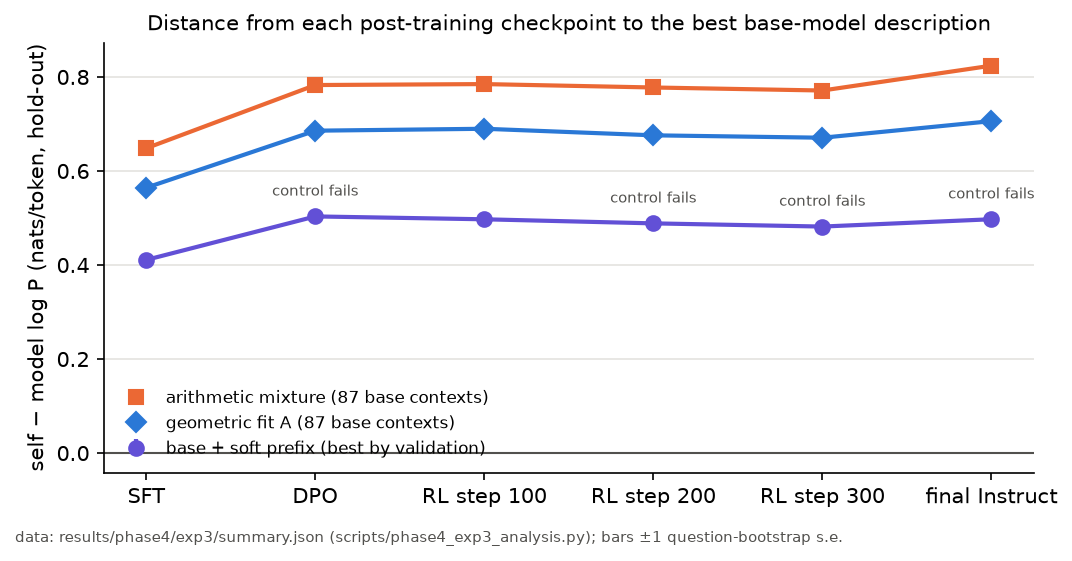
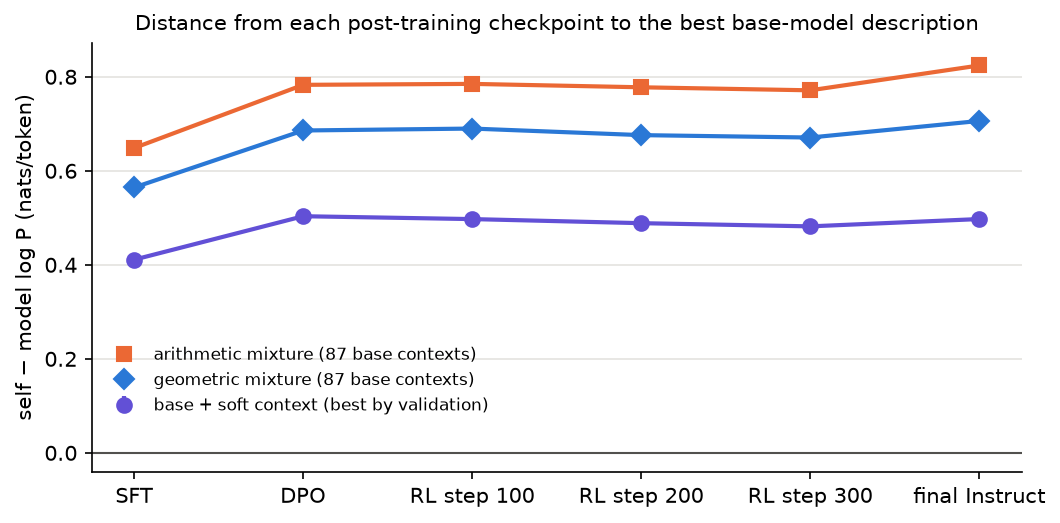
writing updates

Changed region(s): [[0.0, 0.0918, 0.9962, 0.979], [0.1245, 0.0306, 0.934, 0.0612]]

diff --git a/scripts/phase4_fig3.py b/scripts/phase4_fig3.py
@@ -18,8 +18,8 @@ def main():
     S = json.load(open("results/phase4/exp3/summary.json"))["checkpoints"]; ks = [k for k in ORDER if k in S]
     x = np.arange(len(ks)); fig, ax = plt.subplots(figsize=(7.2, 3.6))
     series = [("gap_arithmetic", "gap_arithmetic_se", "arithmetic mixture (87 base contexts)", "#eb6834", "s"),
-              ("gap_geometric", "gap_geometric_se", "geometric fit A (87 base contexts)", "#2a78d6", "D"),
-              ("gap", "gap_se", "base + soft prefix (best by validation)", "#6250d6", "o")]
+              ("gap_geometric", "gap_geometric_se", "geometric mixture (87 base contexts)", "#2a78d6", "D"),
+              ("gap", "gap_se", "base + soft context (best by validation)", "#6250d6", "o")]
     for key, se, lab, col, mk in series:
         xs = [i for i, k in enumerate(ks) if key in S[k]]
         if not xs: continue
@@ -27,14 +27,14 @@ def main():
         ax.errorbar(xs, ys, yerr=[S[ks[i]][se] for i in xs], color=col, marker=mk, ms=7, lw=0, elinewidth=2, capsize=0, label=lab)
         for (x0, y0), (x1, y1) in zip(zip(xs, ys), zip(xs[1:], ys[1:])):   # dotted where checkpoints in between were not fitted
             ax.plot([x0, x1], [y0, y1], color=col, lw=2, ls="-" if x1 == x0 + 1 else ":")
-    for i, k in enumerate(ks):
-        if "control_pass" in S[k] and not S[k]["control_pass"]: ax.annotate("control fails", (i, S[k].get("gap", 0)), textcoords="offset points", xytext=(0, 10), ha="center", fontsize=7, color="#52514e")
+    for i, k in enumerate(ks):   # "control fails" labels switched off (author, 2026-11-24); control results in summary.json
+        if False and "control_pass" in S[k] and not S[k]["control_pass"]: ax.annotate("control fails", (i, S[k].get("gap", 0)), textcoords="offset points", xytext=(0, 10), ha="center", fontsize=7, color="#52514e")
     ax.axhline(0, color="#52514e", lw=1)
-    ax.set_xticks(x); ax.set_xticklabels([LABEL[k] for k in ks]); ax.set_ylabel("self − model log P (nats/token, hold-out)")
+    ax.set_xticks(x); ax.set_xticklabels([LABEL[k] for k in ks]); ax.set_ylabel("self − model log P (nats/token)")
     ax.set_title("Distance from each post-training checkpoint to the best base-model description", fontsize=10)
     for sp in ["top", "right"]: ax.spines[sp].set_visible(False)
-    ax.grid(axis="y", color="#e4e3df", lw=0.8); ax.set_axisbelow(True); ax.legend(fontsize=8, frameon=False)
-    fig.text(0.01, -0.02, "data: results/phase4/exp3/summary.json (scripts/phase4_exp3_analysis.py); bars ±1 question-bootstrap s.e.", fontsize=7, color="#52514e")
+    ax.grid(axis="y", color="#e4e3df", lw=0.8); ax.set_axisbelow(True); ax.legend(fontsize=8, frameon=False, loc="lower left", bbox_to_anchor=(0.0, 0.1))   # 2026-11-24: raised off the zero line (author)
+    # data: results/phase4/exp3/summary.json (scripts/phase4_exp3_analysis.py); bars ±1 question-bootstrap s.e. (footer removed from the figure, author 2026-11-24)
     fig.tight_layout(); out = "results/phase4/fig3_stage_gap.png"; fig.savefig(out, dpi=150, bbox_inches="tight"); print("->", out)
 
 
